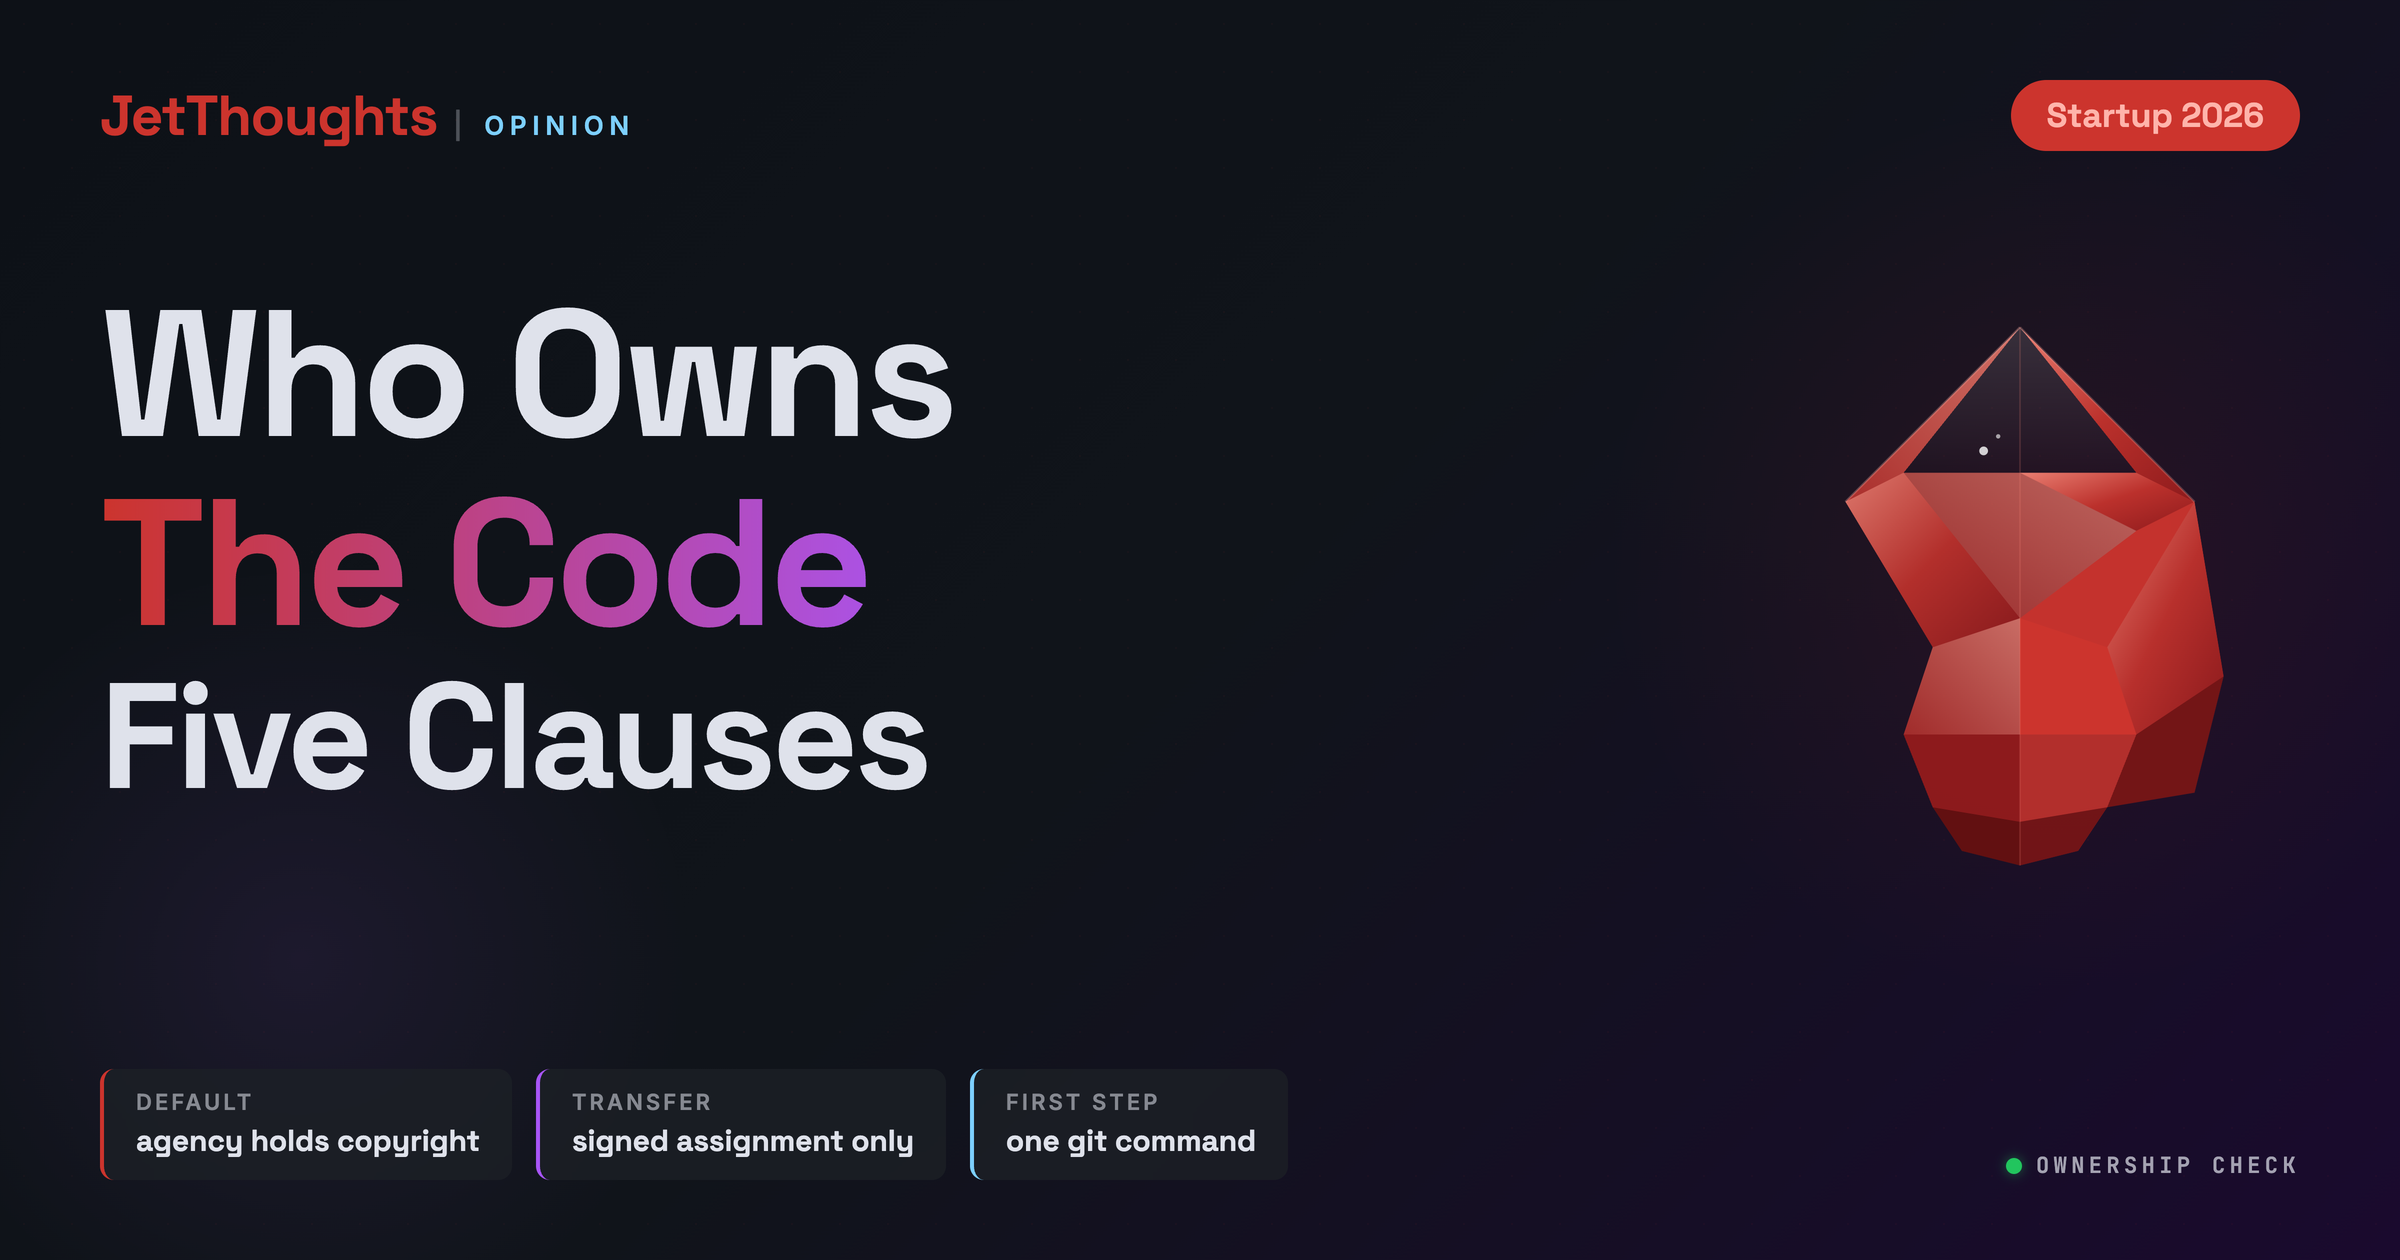
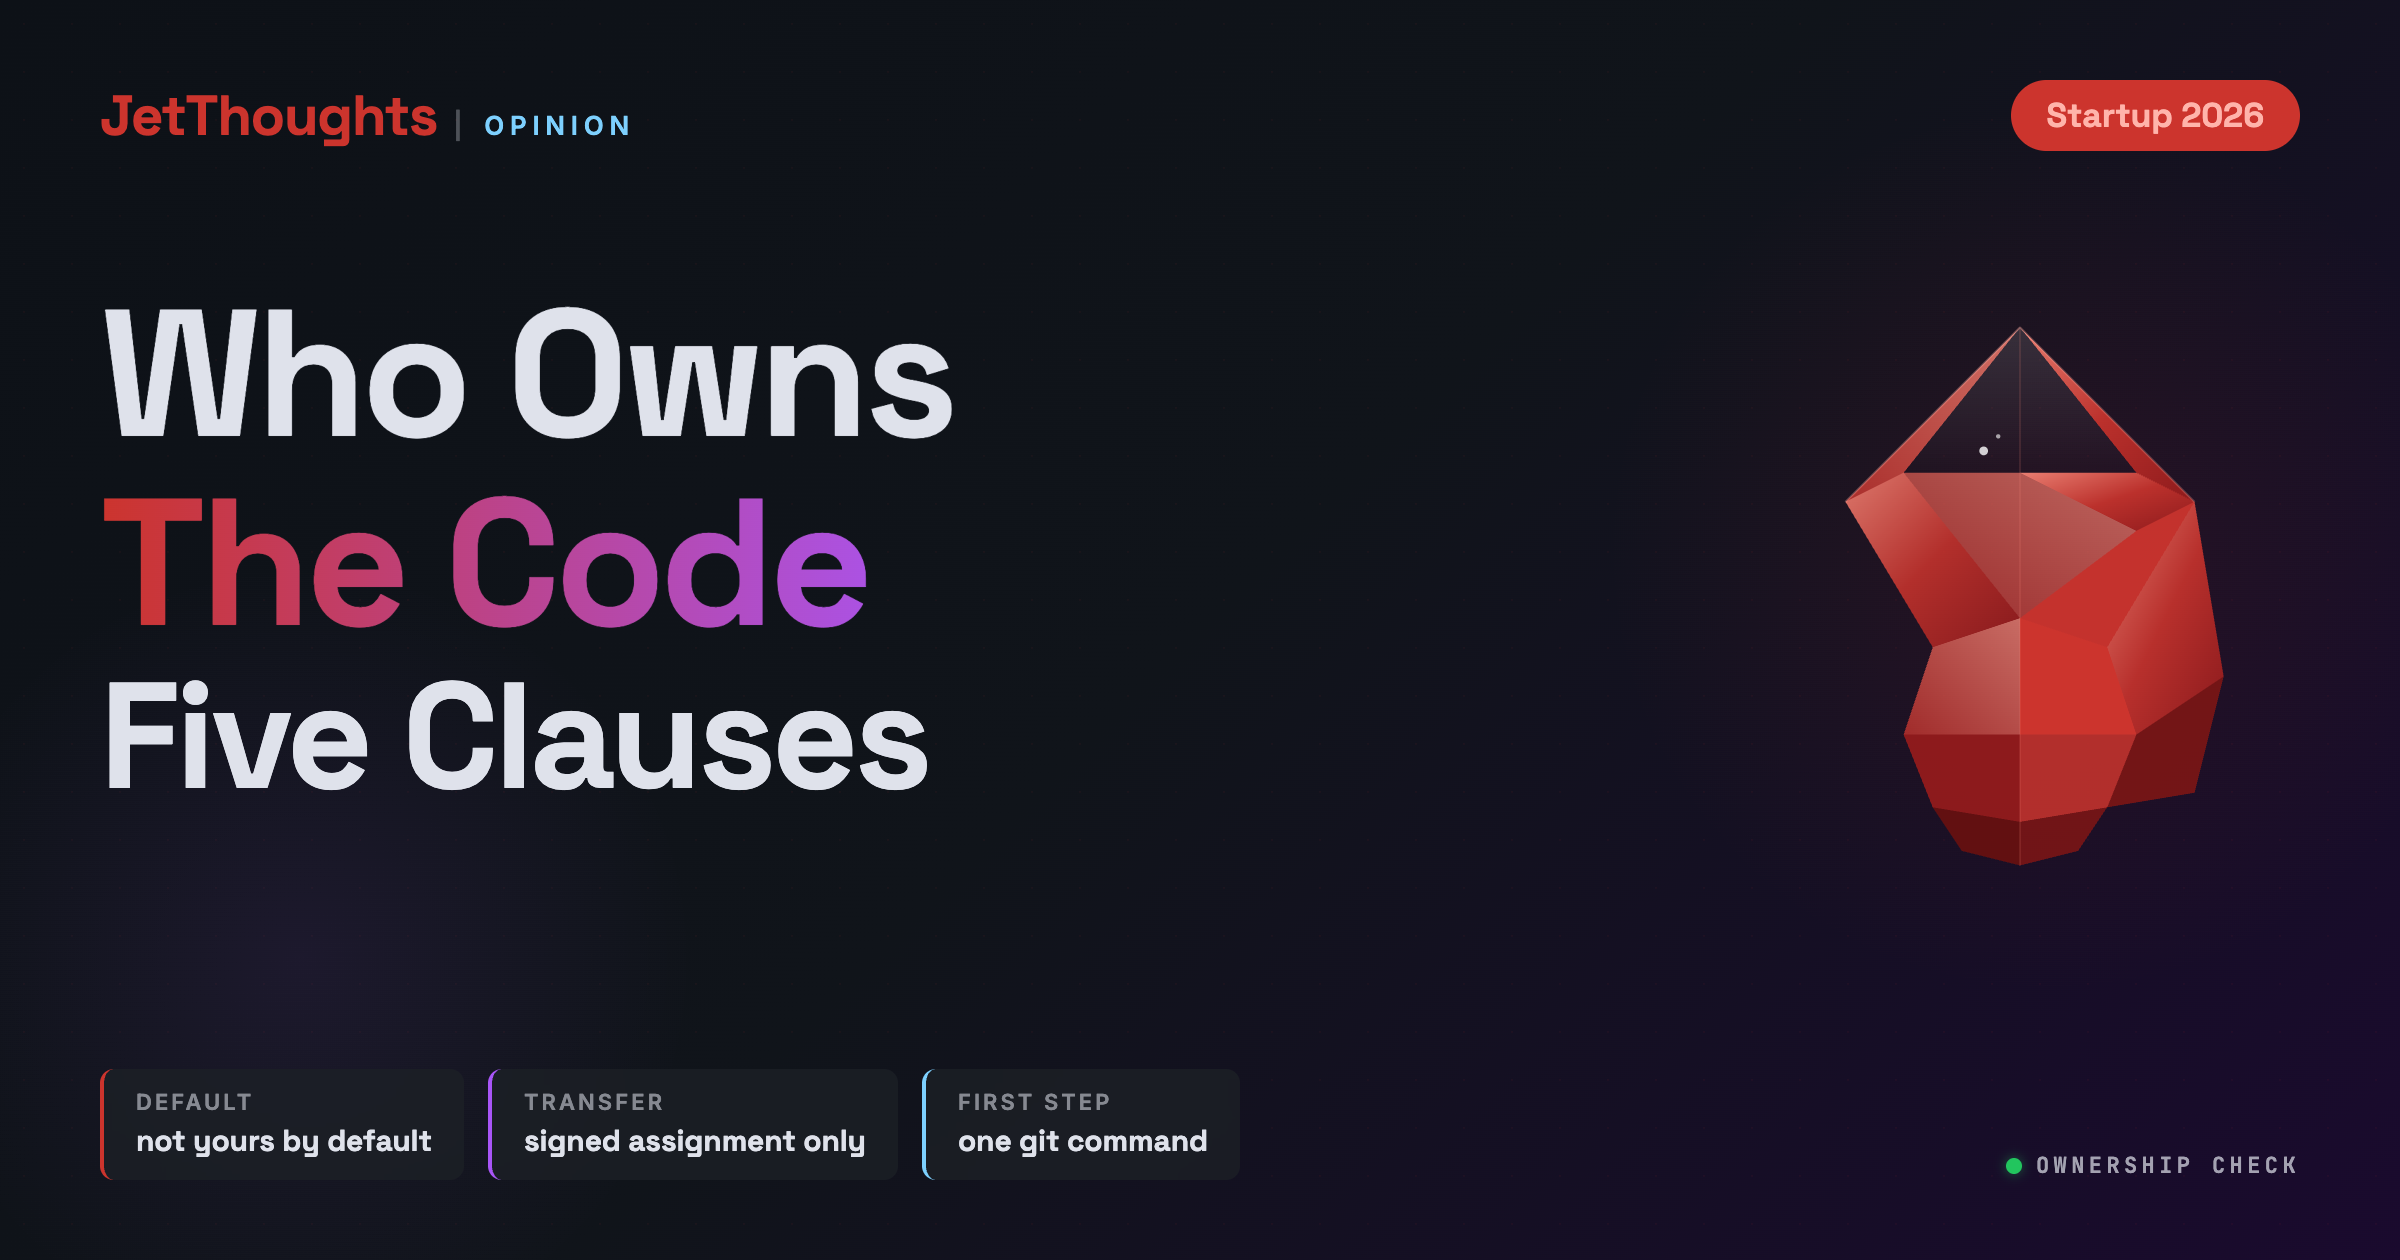
publish(blog): Wave G batch 1 live - 3 posts, covers, corrected legal chip
- draft: false on dev-shop-contract-code-ownership,
  switch-dev-shops-safely-transition-guide, retros-founder-transparency-tool
- Cover chip + description corrected on the ownership post: 'agency holds
  copyright' repeated the false absolute the body fix removed; now 'not
  yours by default' (strictly true from the founder's side)
- 20.07 NEW-B/C/G flipped to Published
- Publish gate: dual adversarial critics applied, scroll checks on all 3
  rendered posts, hugo-build green

Claude-Session: https://claude.ai/code/session_01XzSs7FupxTPeX4QW1u5anX

Changed region(s): [[0.0625, 0.8667, 0.5312, 0.9286]]

diff --git a/docs/projects/2510-seo-content-strategy/20-29-strategy/20.07-content-plan-icp-e-q2-2026.md b/docs/projects/2510-seo-content-strategy/20-29-strategy/20.07-content-plan-icp-e-q2-2026.md
@@ -171,14 +171,14 @@ If the first two LinkedIn pillars do not produce qualified founder comments or a
 | 20 | 2026-06-17 | 🤖 AI | Slopsquatting: Supply Chain Attack Vibe Coding Created | `slopsquatting-ai-supply-chain-attack` | 38/50 | ✅ LIVE as course chapter (2026-07-30 G3 audit: /blog/ alias redirects into the course; link to it, do not redraft) |
 | 21 | 2026-06-20 | 💎 Rails | Rails 8.2 Preview: Argon2 + What's Coming | `rails-8-2-preview-argon2-features` | 40/50 | ❌ Dropped - speculative, depends on unreleased Rails version |
 | NEW-A | 2026-05-27 | 🧑💼 Founders | What a Weekly Dev Report Should Look Like | `weekly-dev-report-template-founders` | 44/50 | ✅ LIVE as course chapter (2026-07-30 G3 audit: /blog/ alias redirects into the course; link to it, do not redraft) |
-| NEW-B | 2026-06-10 | 🧑💼 Founders | Dev Shop Contract: Who Owns the Code? | `dev-shop-contract-code-ownership` | 43/50 | 🔲 Planned |
-| NEW-C | 2026-06-13 | 🧑💼 Founders | How to Switch Dev Shops Without Losing Progress | `switch-dev-shops-safely-transition-guide` | 42/50 | 🔲 Planned |
+| NEW-B | 2026-06-10 | 🧑💼 Founders | Dev Shop Contract: Who Owns the Code? | `dev-shop-contract-code-ownership` | 43/50 | ✅ Published 2026-07-31 (Wave G batch 1) |
+| NEW-C | 2026-06-13 | 🧑💼 Founders | How to Switch Dev Shops Without Losing Progress | `switch-dev-shops-safely-transition-guide` | 42/50 | ✅ Published 2026-07-31 (Wave G batch 1) |
 | NEW-D | 2026-06-20 | 🧑💼 Founders | What SLAs to Require From Your Dev Shop | `dev-shop-sla-requirements-checklist` | 41/50 | 🔲 Planned |
 | **NEW-C2** | **2026-05-13** | **🧑💼 Founders** | **I Can't Tell If My Dev Shop Is Good (top-of-funnel)** | **`cant-tell-if-dev-shop-is-good-founder-guide`** | **45/50** | **⏸ Deferred - broad hook; LinkedIn sprint tests sharper progress/access angles first** |
 | **NEW-D2** | **2026-05-20** | **🧑💼 Founders / 🤖 AI** | **The AI Token Bill Your Dev Shop Forgot to Mention** | **`ai-token-bill-dev-shop-pass-through-cost`** | **44/50** | **✅ LIVE as course chapter (2026-07-30 G3 audit: /blog/ alias redirects into the course; link to it, do not redraft)** |
 | **NEW-E** | **2026-05-27** | **🧑💼 Founders** | **When Your Agency Says "We Use AI" - 5 Follow-Up Questions** | **`agency-uses-ai-follow-up-questions`** | **44/50** | **✅ LIVE as course chapter (2026-07-30 G3 audit: /blog/ alias redirects into the course; link to it, do not redraft)** |
 | **NEW-F** | **2026-06-03** | **💎 Rails** | **Rails 7.0/7.1 EOL: 10 Patches You Just Missed** | **`rails-7-eol-missed-cve-patches`** | **42/50** | **🔲 Planned (Mar+Apr 2026 CVE drops, EOL urgency)** |
-| **NEW-G** | **2026-06-10** | **🧑💼 Founders** | **Retros Are Your Transparency Tool (Founder Edition)** | **`retros-founder-transparency-tool`** | **41/50** | **🔲 Planned (counter to thoughtbot Apr 28 engineer-targeted post)** |
+| **NEW-G** | **2026-06-10** | **🧑💼 Founders** | **Retros Are Your Transparency Tool (Founder Edition)** | **`retros-founder-transparency-tool`** | **41/50** | **✅ Published 2026-07-31 (Wave G batch 1; counter to thoughtbot Apr 28 engineer-targeted post)** |
 | **NEW-H** | **2026-06-17** | **🧑💼 Founders** | **PaaS Bill Trap: 3 Migrations That Cut Costs 10x** | **`paas-bill-trap-rescue-migrations`** | **41/50** | **🔲 Planned (Apr 21-23 AppSignal+Honeybadger founder-side rewrite)** |
 | **NEW-I** | **2026-05-20** | **🧑💼 Founders / Control** | **You Asked for a Simple Admin Panel. They Built a Spaceship.** | **`asked-simple-admin-panel-built-spaceship`** | **46/50** | **🔲 Planned - next 5 #3 (client research: User Stories vs Job Stories, over-engineered MVP)** |
 | **NEW-J** | **2026-05-13** | **🧑💼 Founders / Control** | **The Friday Demo Rule: How Non-Technical Founders Catch Fake Progress** | **`friday-demo-rule-founder-progress`** | **45/50** | **✅ LIVE as course chapter (2026-07-30 G3 audit: /blog/ alias redirects into the course; link to it, do not redraft)** |

diff --git a/content/blog/dev-shop-contract-code-ownership/index.md b/content/blog/dev-shop-contract-code-ownership/index.md
@@ -1,8 +1,8 @@
 ---
 title: "Dev Shop Contract: Who Owns the Code?"
-description: "Under US copyright law your dev shop owns the code it writes until a signed clause says otherwise. Five clauses to check, plus one command to run first."
+description: "Under US copyright law the code your dev shop writes is not yours by default - a signed clause makes it yours. Five clauses to check, plus one command to run first."
 date: 2026-07-31
-draft: true
+draft: false
 author: "JetThoughts Team"
 slug: "dev-shop-contract-code-ownership"
 keywords: "dev shop contract code ownership, software development contract IP, work for hire developer agreement"
@@ -10,7 +10,7 @@ tags: ["startup", "founder", "dev-agency", "code-ownership", "outsourcing"]
 categories: ["Startup"]
 canonical_url: "https://jetthoughts.com/blog/dev-shop-contract-code-ownership/"
 og_title: "Dev Shop Contract: Who Owns the Code?"
-og_description: "Under US copyright law your dev shop owns the code it writes until a signed clause says otherwise. Five clauses to check, plus one command to run first."
+og_description: "Under US copyright law the code your dev shop writes is not yours by default - a signed clause makes it yours. Five clauses to check, plus one command to run first."
 cover_image: cover.png
 metatags:
   image: cover.png

diff --git a/content/blog/switch-dev-shops-safely-transition-guide/index.md b/content/blog/switch-dev-shops-safely-transition-guide/index.md
@@ -2,7 +2,7 @@
 title: "Switch Dev Shops Without Losing Progress"
 description: "How to switch development agencies without losing your code: the 30-day overlap, the cold-start deploy drill, and what the next team needs on day one."
 date: 2026-07-31
-draft: true
+draft: false
 author: "JetThoughts Team"
 slug: "switch-dev-shops-safely-transition-guide"
 keywords: "how to switch development agencies, change dev shop transition, switching software development companies"

diff --git a/content/blog/retros-founder-transparency-tool/index.md b/content/blog/retros-founder-transparency-tool/index.md
@@ -2,7 +2,7 @@
 title: "Retros Are Your Transparency Tool"
 description: "Retros for non-technical founders: what a retrospective is, what the one-page summary should say, and why a repeated action item is your best warning sign."
 date: 2026-07-31
-draft: true
+draft: false
 author: "JetThoughts Team"
 slug: "retros-founder-transparency-tool"
 keywords: "retros for non-technical founders, sprint retrospective founder, dev team transparency tool"
